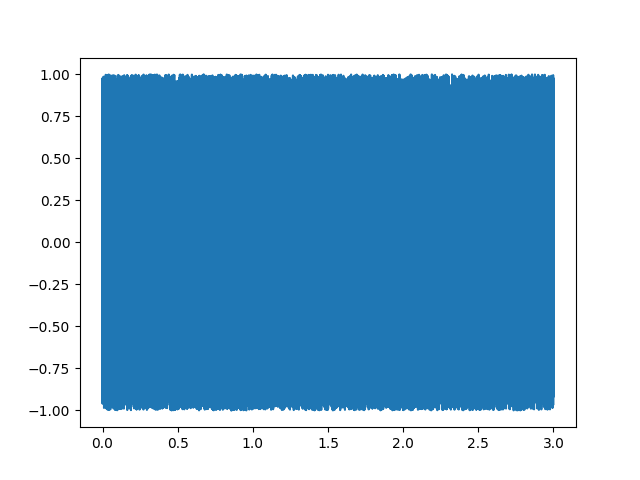
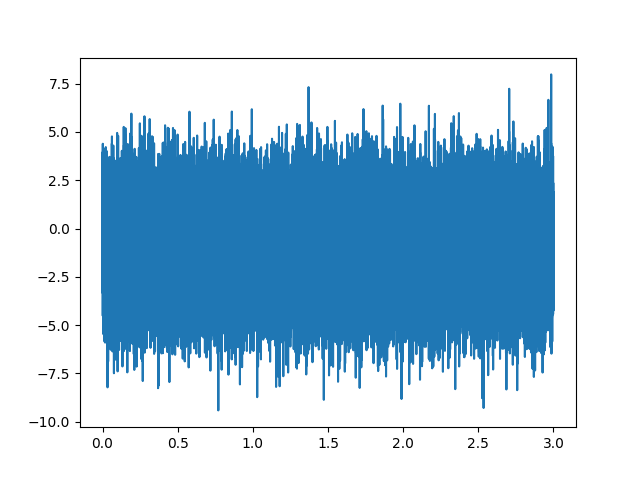
1章を変更

diff --git a/yyamamoto/chapter01/q05.py b/yyamamoto/chapter01/q05.py
@@ -9,12 +9,12 @@ fs = 16000  # サンプリング周波数 Hz
 t = np.arange(0, sec, 1/fs) # サンプリング点の配列
 
 y1 = A * np.sin(2*np.pi*f*t) # 正弦波
-y2 = 2 * (np.random.rand(fs*sec)) - 1 # ホワイトノイズ
+y2 = 2 * (np.random.randn(fs*sec)) - 1 # ホワイトノイズ
 
 # グラフの描画
 fig = plt.figure()
-plt.plot(t, y1, label='sin')
-plt.plot(t, y2, label='white noise')
+plt.plot(t, y1, label='sin', zorder=2)
+plt.plot(t, y2, label='white noise', zorder=1)
 plt.legend()
 fig.savefig('q05_graph')
 

diff --git a/yyamamoto/chapter01/q04.py b/yyamamoto/chapter01/q04.py
@@ -5,7 +5,7 @@ fs = 16000  # サンプリング周波数 Hz
 sec = 3       # 信号長 s
 
 t = np.arange(0, sec, 1/fs) # サンプリング点の配列
-y = 2 * (np.random.rand(fs*sec)) - 1
+y = 2 * (np.random.randn(fs*sec)) - 1
 
 # グラフの描画
 fig = plt.figure()

diff --git a/yyamamoto/chapter01/q08.py b/yyamamoto/chapter01/q08.py
@@ -4,7 +4,7 @@ import soundfile as sf
 
 def add_white_noise(s, sn):
     N = len(s)
-    x = 2 * (np.random.rand(N)) - 1     # ホワイトノイズの作成
+    x = 2 * (np.random.randn(N)) - 1     # ホワイトノイズの作成
 
     sum_s = 0
     sum_x = 0

diff --git a/yyamamoto/chapter01/q07.py b/yyamamoto/chapter01/q07.py
@@ -15,7 +15,7 @@ def SN_rate(s, x):
 
 def add_white_noise(s, sn):
     N = len(s)
-    x = 2 * (np.random.rand(N)) - 1     # ホワイトノイズの作成
+    x = 2 * (np.random.randn(N)) - 1     # ホワイトノイズの作成
 
     sum_s = 0
     sum_x = 0

diff --git a/yyamamoto/chapter01/q09.py b/yyamamoto/chapter01/q09.py
@@ -1,4 +1,5 @@
 import soundfile as sf
 
 data, samplerate = sf.read('q08_audio.wav')
-sf.write("q09_audio.wav", data, 8000, subtype="PCM_16")
+y = data[::2]
+sf.write("q09_audio.wav", y, 8000, subtype="PCM_16")
